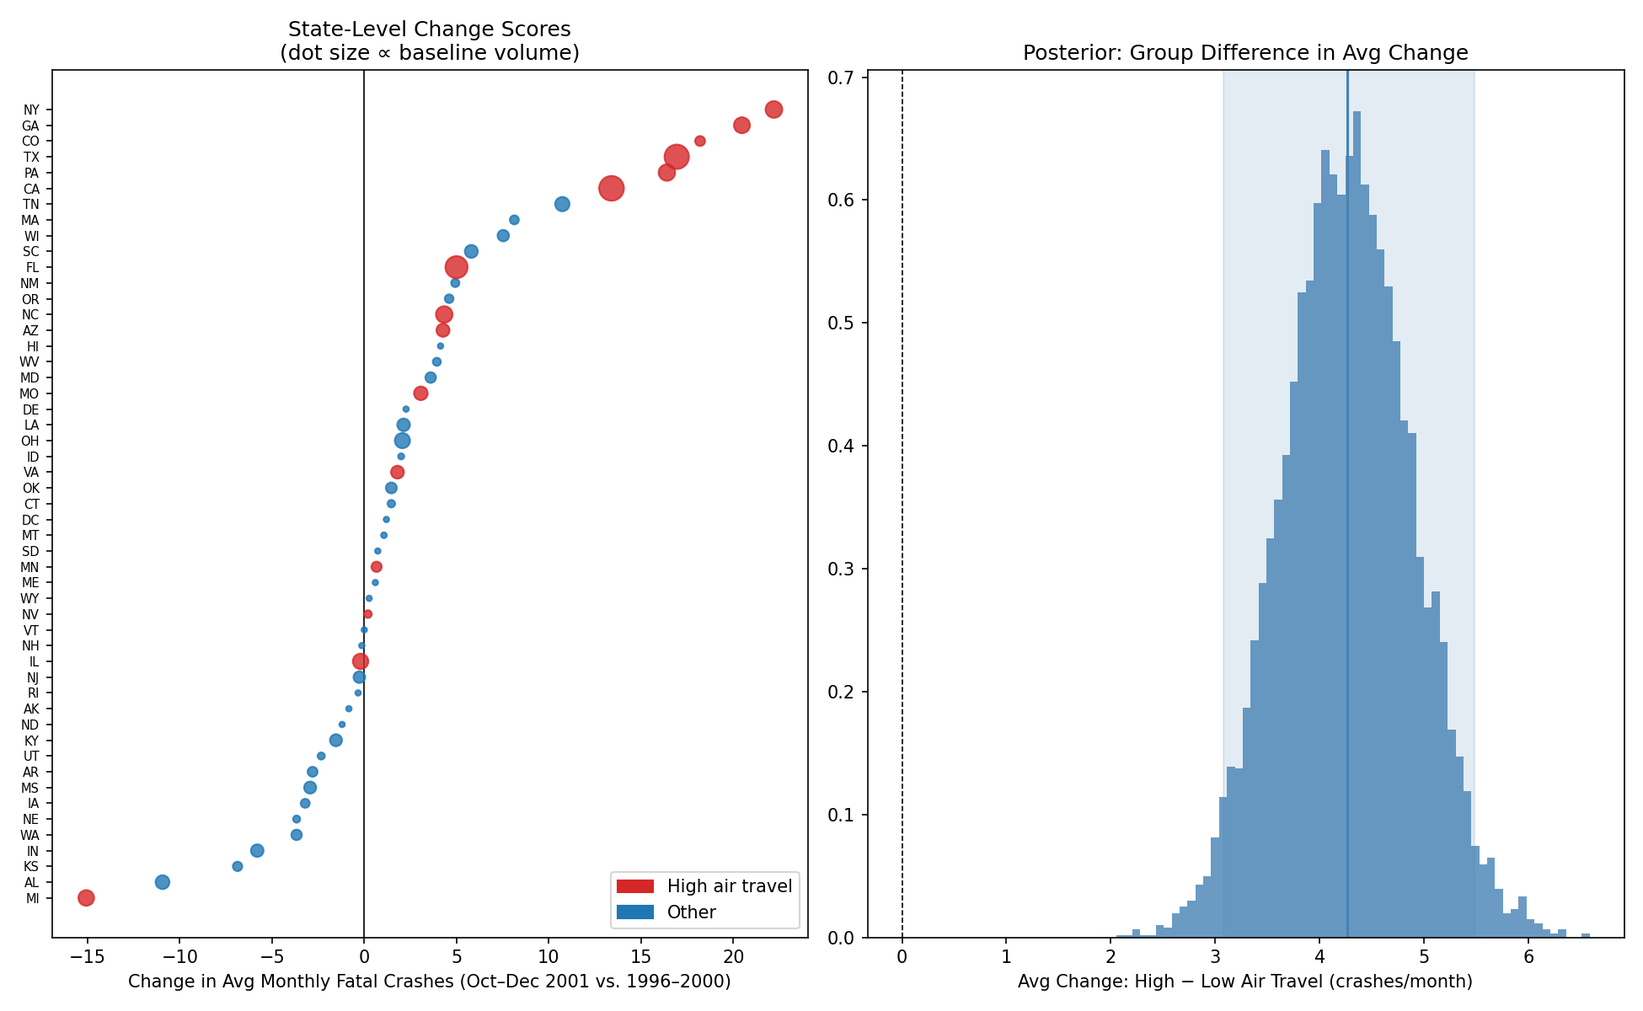
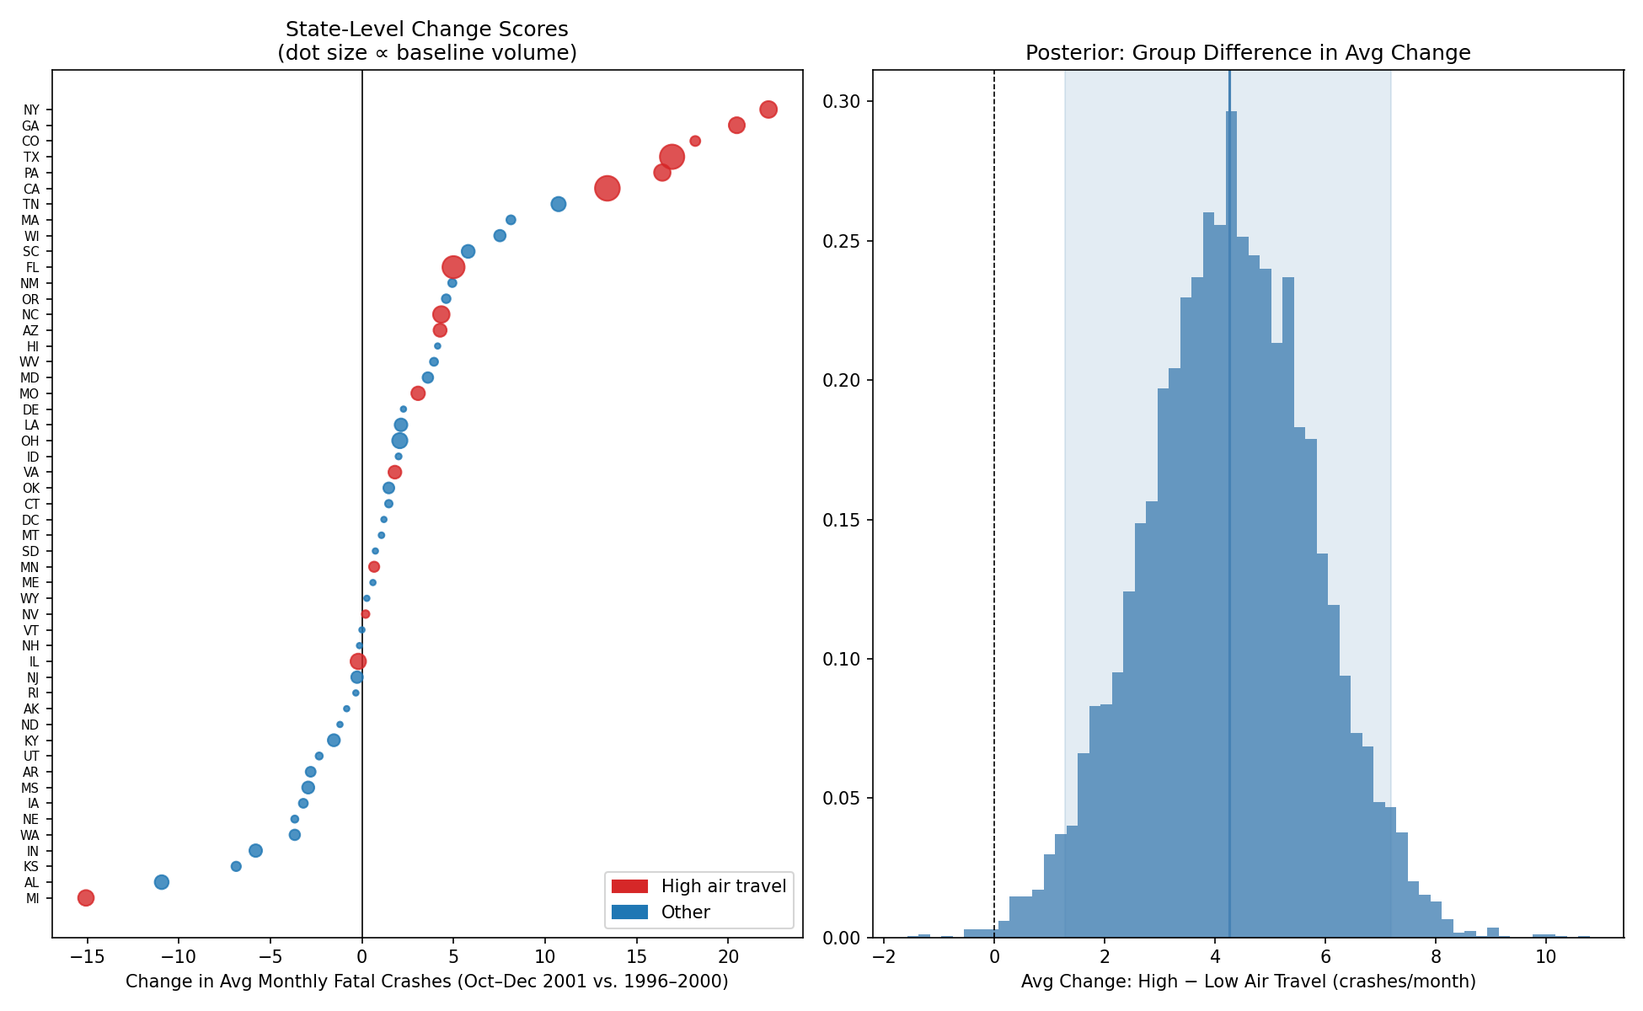
Edits

diff --git a/scripts/dread-risk/state_hierarchical.py b/scripts/dread-risk/state_hierarchical.py
@@ -54,14 +54,12 @@ def prepare_data():
         df.query("1996 <= YEAR <= 2000")
         .groupby("state_abbr")["fatal_crashes"]
         .agg(pre_mean="mean", pre_sd="std", pre_n="count")
-        .assign(pre_se=lambda d: d["pre_sd"] / np.sqrt(d["pre_n"]))
     )
 
     post = (
         df.query("YEAR == 2001")
         .groupby("state_abbr")["fatal_crashes"]
-        .mean()
-        .rename("post_mean")
+        .agg(post_mean="mean", post_sd="std", post_n="count")
     )
 
     return (
@@ -71,6 +69,11 @@ def prepare_data():
             delta=lambda d: d["post_mean"] - d["pre_mean"],
             pct_change=lambda d: d["delta"] / d["pre_mean"] * 100,
             high_air_travel=lambda d: d.index.isin(HIGH_AIR_TRAVEL),
+            # SE of the change score: sqrt(Var(pre_mean) + Var(post_mean))
+            # Post period has only 3 obs so we pool SD from pre for stability
+            delta_se=lambda d: np.sqrt(
+                d["pre_sd"] ** 2 / d["pre_n"] + d["pre_sd"] ** 2 / d["post_n"]
+            ),
         )
     )
 
@@ -88,7 +91,7 @@ def run_model(state_df):
     """
     group = state_df["high_air_travel"].astype(int).values
     delta = state_df["delta"].values
-    se = state_df["pre_se"].values
+    se = state_df["delta_se"].values
 
     with pm.Model() as model:
         mu = pm.Normal("mu", mu=0, sigma=200, shape=2)

diff --git a/scripts/dread-risk/its_piecewise.py b/scripts/dread-risk/its_piecewise.py
@@ -61,6 +61,28 @@ def main():
     summary = result.effect_summary(direction="two-sided", cumulative=True)
     print(summary)
 
+    # Extract level change (step) and slope change (ramp) coefficients separately.
+    # beta dimensions correspond to model labels in the design matrix.
+    import arviz as az  # type: ignore[import]
+    import numpy as np
+    idata = result.idata
+    beta = az.extract(idata, "beta").values  # shape (n_coeffs, n_draws)
+    labels = result.labels
+    print("\n" + "=" * 60)
+    print("COEFFICIENT LABELS")
+    print("=" * 60)
+    print(labels)
+    step_idx = [i for i, l in enumerate(labels) if "step" in str(l).lower()]
+    ramp_idx = [i for i, l in enumerate(labels) if "ramp" in str(l).lower()]
+    if step_idx:
+        step_draws = beta[step_idx[0], :]
+        lo, hi = np.percentile(step_draws, [2.5, 97.5])
+        print(f"\nLevel change (step): {step_draws.mean():.1f}  [95% HDI: {lo:.1f}, {hi:.1f}]")
+    if ramp_idx:
+        ramp_draws = beta[ramp_idx[0], :]
+        lo, hi = np.percentile(ramp_draws, [2.5, 97.5])
+        print(f"Slope change (ramp): {ramp_draws.mean():.3f}  [95% HDI: {lo:.3f}, {hi:.3f}] per month")
+
     OUT_DIR.mkdir(parents=True, exist_ok=True)
     fig, _axes = result.plot(show=False)
     fig.suptitle(

diff --git a/scripts/dread-risk/its_extended.py b/scripts/dread-risk/its_extended.py
@@ -71,7 +71,7 @@ def main():
     print("\n" + "=" * 60)
     print("FULL POST-PERIOD EFFECT (Oct 2001 – Dec 2004)")
     print("=" * 60)
-    print(result.effect_summary(direction="increase", cumulative=True))
+    print(result.effect_summary(direction="two-sided", cumulative=True))
 
     OUT_DIR.mkdir(parents=True, exist_ok=True)
     fig, _axes = result.plot(show=False)

diff --git a/scripts/dread-risk/its_causalpy.py b/scripts/dread-risk/its_causalpy.py
@@ -57,7 +57,7 @@ def main():
     print("\n" + "=" * 60)
     print("EFFECT SUMMARY")
     print("=" * 60)
-    summary = result.effect_summary(direction="increase", cumulative=True)
+    summary = result.effect_summary(direction="two-sided", cumulative=True)
     print(summary)
 
     # Save the built-in CausalPy plot

diff --git a/content/post/dread-risk-and-driving.md b/content/post/dread-risk-and-driving.md
@@ -2,7 +2,7 @@
 title:       "Dread Risk and Driving"
 subtitle:    "Twenty-five years of trying to answer a deceptively hard question"
 description: "Did fear of flying after September 11 kill more Americans on the road than died on the planes? Twenty-five years on, the evidence points in one direction. The precise number is another matter."
-date:        2026-09-07
+date:        2026-03-07
 author:      "MJ"
 image:       ""
 tags:        ["causal inference", "behavioral science"]
@@ -10,13 +10,15 @@ categories:  []
 draft:       false
 ---
 
-Twenty-five years ago this week, Americans stopped flying. Revenue passenger miles fell 20% in October 2001, 17% in November, and 12% in December compared with the year before. Some of that was logistics — disrupted schedules, closed airspace, security lines that hadn't existed a month earlier. Some of it was fear.
+The September 11 attacks killed nearly 3,000 people. In the months that followed, as the country processed what had happened, a secondary question emerged among researchers studying risk and behavior: could the fear response itself be deadly?
 
-Fear of what, exactly? Psychologists have a name for the particular dread that plane crashes and terrorist attacks trigger. Public judgments about hazards don't track statistical probability. Instead, people assess risk along two dimensions: how mysterious a hazard feels, and how much dread it generates. Dread hazards feel uncontrollable, catastrophic in scale, capable of killing large numbers of people at once. Plane crashes and terrorist attacks score near the top of that scale. Car accidents score near the bottom, even though they kill roughly 40,000 Americans a year.
+After the attacks, Americans avoided flying and drove instead. Revenue passenger miles fell 20% in October 2001, 17% in November, and 12% in December compared with the year before. Some of that was practical. Airline schedules were disrupted, airspace was closed and security lines emerged where there had been none. Fear was certainly a factor — and fear has a well-documented tendency to mismatch the actual distribution of risk.
 
-The mismatch matters because it drives behavior. If enough people responded to September 11 by driving instead of flying, they traded a vanishingly small risk for a much larger one. A 2004 paper in *Psychological Science* ran the test and produced a specific answer: roughly 350 excess traffic deaths in the three months following the attacks, possibly more than the number who died on the four hijacked planes.
+Psychologists have a name for the particular dread that plane crashes and terrorist attacks trigger. Public judgments about hazards don't track statistical probability. Instead, people assess risk along two dimensions: how mysterious a hazard feels, and how much dread it generates. Dread hazards feel uncontrollable, catastrophic in scale, capable of killing large numbers of people at once. Plane crashes and terrorist attacks score near the top of that scale. Car accidents score near the bottom, even though they kill roughly 40,000 Americans a year.
 
-That number spread. It appeared in popular books about risk perception, in behavioral economics courses, in op-eds about rational fear. It still circulates. But it rests on a simple before-and-after comparison applied to three months of data. Other researchers pushed back quickly — a contemporaneous reanalysis found the effect smaller and less robust once other factors were considered. A modest literature followed, each study refining the question without fully settling it.
+If enough people responded to September 11 by driving instead of flying, they traded a vanishingly small risk for a much larger one. In 2004, Gigerenzer estimated that there were roughly 350 excess traffic deaths in the three months following the attacks, possibly more than the number who died on the four hijacked planes.
+
+That number still appears in discussions of dread risk and behavioral responses to disaster. But it rests on a simple before-and-after comparison applied to three months of data. A contemporaneous reanalysis challenged the finding, arguing the effect was smaller and less robust once other factors were considered. The question was never fully resolved.
 
 Twenty-five years later, with better data and better methods, here's where things stand. The direction of the effect is probably right. The precision of the original estimate never was.
 
@@ -28,21 +30,21 @@ We can replicate this using FARS microdata directly.
 
 {{< figure src="/img/dread-risk/fig1_replication.png" caption="Monthly fatal traffic crashes in 2001 (black squares) versus the 1996-2000 mean (gray line) and range (vertical bars). The dashed red line marks September 11." class="img-center" width="90%" >}}
 
-The pattern matches. January through September, 2001 sits within the historical range. October through December, all three months land at or above the top of it. November shows the largest jump, with 193 more fatal crashes than the baseline average. Our FARS data produces slightly different totals than the original paper (37,862 fatal crashes in 2001 versus 37,795), reflecting minor data revisions over two decades.
+January through September, 2001 sits within the historical range. October through December, all three months land at or above the top of it. November shows the largest jump, with 193 more fatal crashes than the baseline average. Our FARS data produces slightly different totals than the original paper (37,862 fatal crashes in 2001 versus 37,795), reflecting minor data revisions over two decades.
 
-This is an interrupted time series design. The method itself is well-established. It assumes the pre-intervention trend would have continued unchanged without the event, and that the event came as a surprise with no anticipatory behavioral changes beforehand. Its validity rests on whether anything else changed at the same time that could explain the spike.
+This is functionally an interrupted time series design — the simplest version of one. The original analysis doesn't model trend or seasonality explicitly; it just compares 2001 to a five-year mean. The method assumes the pre-intervention trend would have continued unchanged without the event, and that the event came as a surprise with no anticipatory behavioral changes beforehand. Its validity rests on whether anything else changed at the same time that could explain the spike.
 
-Quite a lot changed. September 11 disrupted transportation networks, triggered a recession, and produced widespread psychological distress. Alcohol consumption patterns shifted in the months that followed. Any of these could affect fatality rates independently of mode substitution.
+Quite a lot changed. September 11 disrupted transportation networks, deepened an existing recession, and produced widespread psychological distress, including increases in alcohol consumption. Any of these could affect fatality rates independently of mode substitution.
 
-But there's a more basic question to answer first. Is the Q4 2001 spike actually unusual, or does normal year-to-year variation in quarterly crash counts routinely produce jumps of this size?
+But there's a more basic question: Is the Q4 2001 spike actually unusual?
 
 ### A Bayesian Interrupted Time Series
 
-To put the original analysis on firmer ground, we fit a Bayesian ITS model. It includes a linear trend and monthly seasonal indicators, trained on the pre-intervention period (January 1996 through September 2001), and generates counterfactual predictions for October through December 2001 with full posterior uncertainty. September 2001 is included in the pre-period, consistent with the original paper's framing — changing it doesn't materially affect results.
+To put the original analysis on firmer ground, we fit a Bayesian interrupted time series (ITS) model. It includes a linear trend and monthly seasonal indicators, trained on the pre-intervention period (January 1996 through September 2001), and generates counterfactual predictions for October through December 2001 with full posterior uncertainty. September 2001 is included in the pre-period, consistent with the original paper's framing. Changing it doesn't materially affect results.
 
 {{< figure src="/img/dread-risk/its_causalpy.png" caption="Bayesian interrupted time series analysis. Top: observed vs. counterfactual with 95% credible interval. Middle: monthly causal impact. Bottom: cumulative excess fatal crashes." class="img-center" width="90%" >}}
 
-The model estimates 400 cumulative excess fatal crashes in October through December 2001, with a 95% highest density interval of roughly 200 to 580. This is excess fatal *crashes*, not fatalities. The original paper converted to fatalities by multiplying by the crashes-to-fatalities ratio of roughly 1.11.
+The model estimates 400 cumulative excess fatal crashes in October through December 2001. This is excess fatal *crashes*, not fatalities. The original paper converted to fatalities by multiplying by the crashes-to-fatalities ratio of roughly 1.11.
 
 ### Placebo Tests
 
@@ -50,13 +52,13 @@ A placebo test applies the same model to a year when nothing happened. If the mo
 
 {{< figure src="/img/dread-risk/placebo_tests.png" caption="Placebo tests. The same ITS model run with fake intervention dates in 1998-2000 (blue) versus the actual 2001 date (red). All intervals are two-sided 95% HDIs." class="img-center" width="90%" >}}
 
-The 2000 placebo is a problem. The model confidently estimates -152 crashes per month (95% HDI [-222, -78]) — a large spurious negative effect in a year when nothing happened. The 1998 and 1999 placebos are smaller and include zero in their intervals. None of these are real effects. They're year-to-year variation the model is misreading as an intervention signal.
+The 2000 placebo is a problem. The model confidently estimates -152 crashes per month (95% HDI [-222, -78]), a large spurious negative effect in a year when nothing happened. The 1998 and 1999 placebos are smaller and include zero in their intervals. None of these are real effects. They're year-to-year variation the model is misreading as an intervention signal.
 
-The 2001 estimate is the largest positive outlier, which is reassuring. But the placebos show that a 3-month window is too short for this model to reliably separate a real behavioral shift from ordinary quarterly noise. The tight credible intervals overstate our confidence. The model also assumes conditionally independent errors after accounting for trend and seasonality — if monthly crash counts are autocorrelated (plausible, given weather, economic conditions, and other persistent factors), the true uncertainty is wider still. The original paper's chi-squared test, applied to three data points against a five-year average, has the same problem.
+The 2001 estimate is the largest positive outlier, which is reassuring. But the placebos show that a 3-month window is too short for this model to reliably separate a real behavioral shift from ordinary quarterly noise. The tight credible intervals overstate our confidence. The model also assumes conditionally independent errors after accounting for trend and seasonality. If monthly crash counts are autocorrelated (plausible, given weather, economic conditions, and other persistent factors), the true uncertainty is wider still. The original paper's chi-squared test, applied to three data points against a five-year average, has the same problem.
 
 ## What Happens When We Look Further
 
-The 3-month analysis is fragile. The stronger test is the longer window. A temporary behavioral response — people avoiding flying out of fear — should produce elevated crash counts that fade as air travel normalized. Airlines reported steady recovery through 2002 and into 2003. If the effect were real and specifically driven by dread risk, it should accumulate and then decay.
+The 3-month analysis is fragile. The stronger test is the longer window. A temporary behavioral response (people avoiding flying out of fear) should produce elevated crash counts that fade as air travel normalized. Airlines reported steady recovery through 2002 and into 2003. If the effect were real and specifically driven by dread risk, it should accumulate and then decay.
 
 ### The Extended Timeline
 
@@ -80,9 +82,9 @@ We fit the same ITS model with the post-intervention window extended through Dec
 | 2004 Q3 | +59 |
 | 2004 Q4 | +23 |
 
-These are observed values minus the posterior mean counterfactual — point differences, not full posterior distributions. The effect peaked in early 2002, dipped briefly in Q4 2002, then remained persistently positive through 2004. That's not the clean accumulate-and-decay pattern a dread risk story predicts. Air travel recovered. The excess didn't disappear.
+These are observed values minus the posterior mean counterfactual. They're point differences, not full posterior distributions. The effect peaked in early 2002, dipped briefly in Q4 2002, then remained persistently positive through 2004. That's not the clean accumulate-and-decay pattern a dread risk story predicts. Air travel recovered. The excess didn't disappear.
 
-One interpretation: the standard ITS assumes the pre-period trend continues unchanged into the counterfactual. If that trend is slightly misspecified — if the model is projecting a trajectory that wouldn't have held anyway — the excess gets inflated by model error rather than intervention effect.
+One interpretation: the standard ITS assumes the pre-period trend continues unchanged into the counterfactual. If the model is projecting a trajectory that wouldn't have held anyway, the excess gets inflated by model error rather than intervention effect.
 
 ### A Piecewise Model
 
@@ -98,13 +100,13 @@ This formulation is more conservative than straight extrapolation. It can absorb
 
 If the mechanism is mode substitution, the effect should be stronger in states where more people fly. We split states into two groups using 2001 FAA enplanement data and compared October through December 2001 fatal crashes against the 1996-2000 baseline.
 
-Raw percentages are misleading here. Colorado shows a 40% increase — that's 18 crashes against a monthly baseline of 46. Hawaii shows 45%. These numbers can't sit alongside California or Texas without adjustment. To handle this, we fit a Bayesian weighted model on state-level change scores, using each state's pre-period standard error as the likelihood variance. States with stable, high-volume baselines drive the estimates. Small noisy states contribute little.
+Raw percentages are misleading here. Colorado shows a 40% increase. That's 18 crashes against a monthly baseline of 46. Hawaii shows 45%. These numbers can't sit alongside California or Texas without adjustment. To handle this, we fit a Bayesian weighted model on state-level change scores, using the standard error of the change score as the likelihood variance. States with stable, high-volume baselines drive the estimates. Small noisy states contribute little.
 
-{{< figure src="/img/dread-risk/state_hierarchical.png" caption="Left: state-level change scores (dot size proportional to baseline crash volume). Right: posterior distribution of the weighted group difference." class="img-center" width="90%" >}}
+{{< figure src="/img/dread-risk/state_hierarchical.png" caption="Left: state-level change scores (dot size proportional to baseline crash volume). Right: posterior distribution of the weighted group contrast." class="img-center" width="90%" >}}
 
-The weighted group difference is +4.3 crashes per month (95% HDI: +3.1 to +5.5). High air travel states added roughly 5 more crashes per month against their pre-period baseline; other states added less than 1. The posterior probability that the group difference is positive is effectively 1.
+The weighted group difference is +4.3 crashes per month (95% credible interval: +1.3 to +7.2). High air travel states added roughly 5 more crashes per month against their pre-period baseline; other states added less than 1. The posterior probability that the group difference is positive is 0.998.
 
-The grouping is binary and somewhat arbitrary — the 15th and 16th states by enplanement volume aren't meaningfully different from each other. And the same 3-month window problem applies here too. Still, this is the clearest piece of evidence in the analysis. It's the geographic pattern mode substitution predicts, and it holds up after correcting for small-state noise.
+The grouping is binary and somewhat arbitrary. The 15th and 16th states by enplanement volume aren't meaningfully different from each other. And the same 3-month window problem applies here too. Still, this is the clearest piece of evidence in the analysis. It's the geographic pattern mode substitution predicts, and it holds up after correcting for small-state noise.
 
 ### Road Type
 
@@ -114,13 +116,13 @@ FARS classifies crashes by road functional class. We grouped rural and urban int
 
 {{< figure src="/img/dread-risk/road_type.png" caption="Fatal crashes by road type in 2001 vs. 1996-2000 baseline. Left: all interstates. Right: non-interstate roads." class="img-center" width="90%" >}}
 
-Interstates saw a 2.7% increase (+31 crashes), while non-interstate roads saw 4.3% (+371 crashes). Over 90% of the excess accumulated off the interstate system. Interstates are the safest roads per mile, so extra highway miles produce fewer additional fatalities than the same miles on arterials and local roads. The comparison is also imprecise — the 5.3% VMT figure covers rural interstates only, while the crash figure combines rural and urban. The finding is ambiguous rather than contradictory, consistent with mode substitution but not uniquely explained by it.
+Interstates saw a 2.7% increase (+31 crashes), while non-interstate roads saw 4.3% (+371 crashes). Over 90% of the excess accumulated off the interstate system. Interstates are the safest roads per mile, so extra highway miles produce fewer additional fatalities than the same miles on arterials and local roads. The comparison is also imprecise, since the 5.3% VMT figure covers rural interstates only while the crash figure combines rural and urban. The finding is ambiguous rather than contradictory, consistent with mode substitution but not uniquely explained by it.
 
 ## What This Tells Us
 
 The original paper appeared three years after the attacks, asked the right question, and got the direction roughly right. It also produced a specific number that the data can't support at that precision. The same methodology applied to control years fires false alarms. The contemporaneous reanalysis found the effect smaller and less robust. The literature that followed reached broadly consistent but varying conclusions across different methods and time windows.
 
-Twenty-five years on, the most defensible summary is that there probably was a real increase in traffic fatalities following September 11, concentrated in states with the most air travel, persisting for at least several months and possibly longer. The piecewise model — which allows the trajectory to change rather than just the level — finds a positive effect across 39 months with high posterior confidence. The geographic evidence holds up after correcting for noise in small-state estimates.
+Twenty-five years on, the most defensible summary is that there probably was a real increase in traffic fatalities following September 11, concentrated in states with the most air travel, persisting for at least several months and possibly longer. The piecewise model, which allows the trajectory to change rather than just the level, finds a positive effect across 39 months with high posterior confidence. The geographic evidence holds up after correcting for noise in small-state estimates.
 
 What we can't say with confidence is how large the effect was, how long it lasted, or how much of it was specifically driven by mode substitution versus other disruptions the attacks set in motion. The methods agree on direction. They diverge on magnitude. Some evidence fits the story neatly; some doesn't. That's what causal inference looks like on a question where you can't run an experiment, where the intervention changed everything at once, and where the data is a monthly national aggregate.
 
